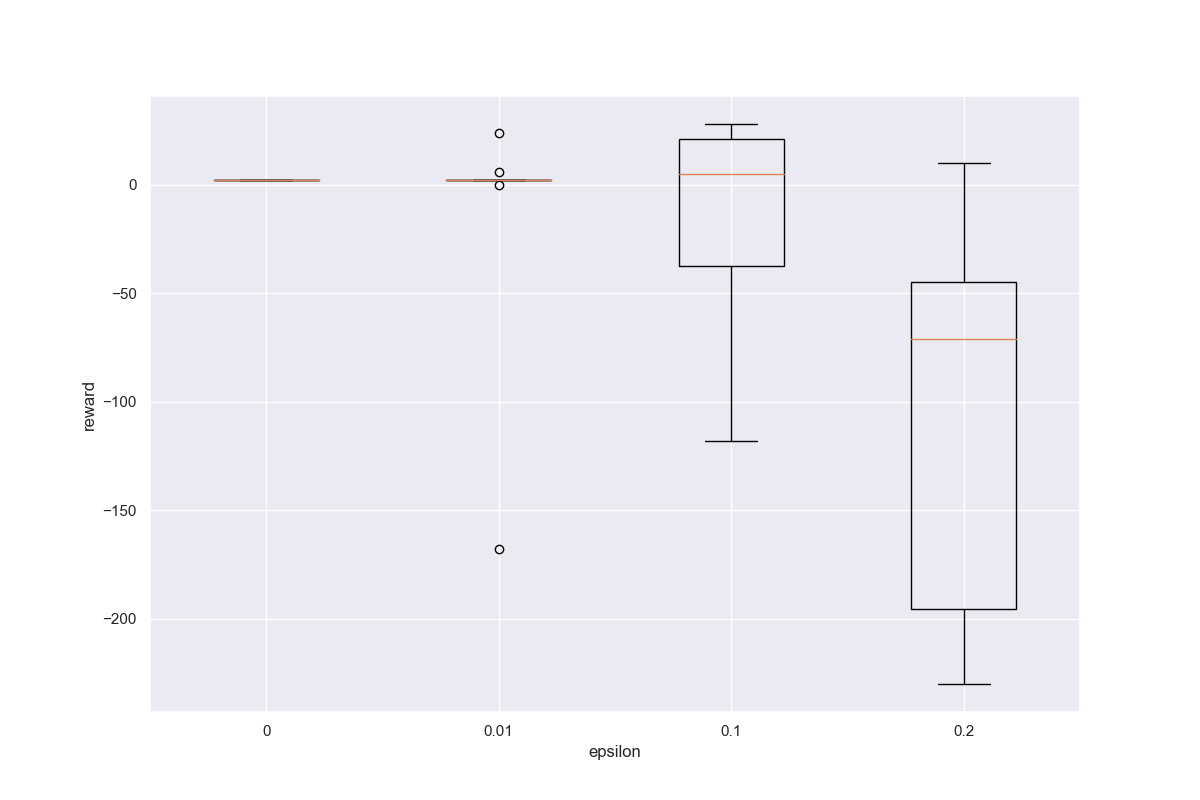
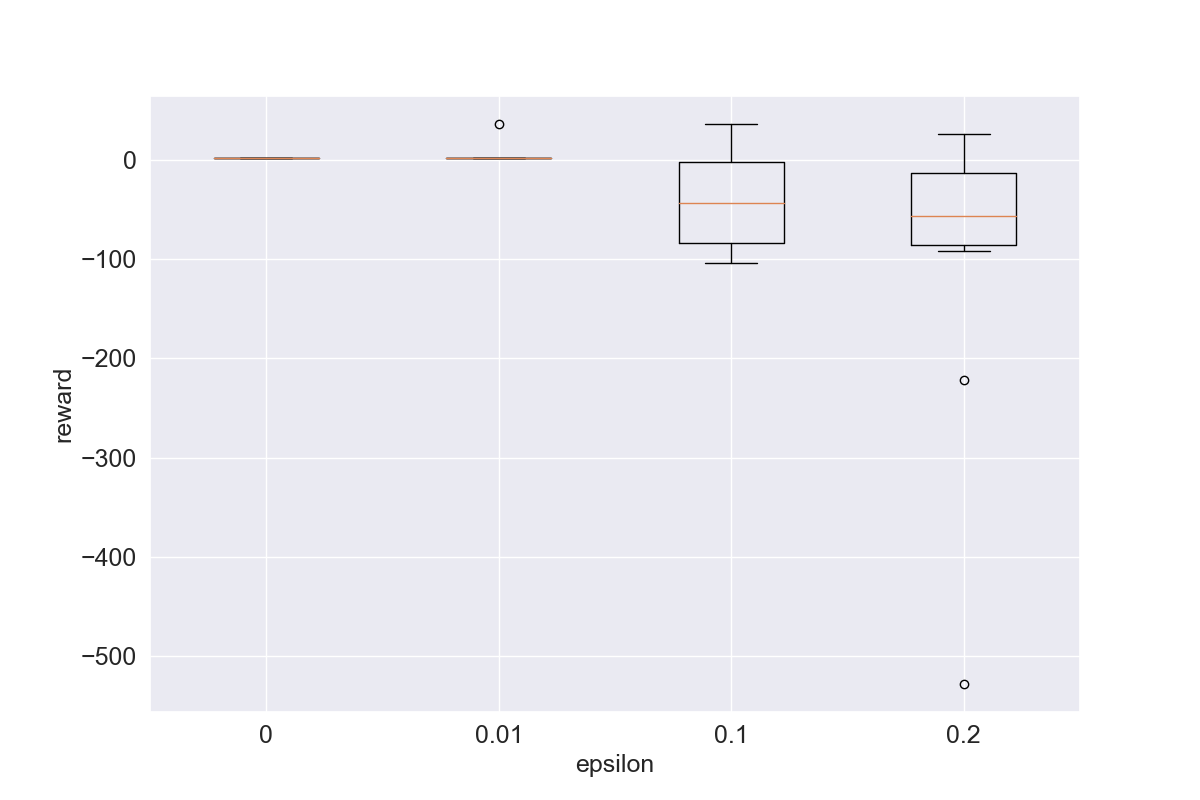
clean up the code

diff --git a/HW2/GameFiles/main_greedy.py b/HW2/GameFiles/main_greedy.py
@@ -60,30 +60,30 @@ def run_greedy(map, specified_prob):
     # get the most likely digit
     print(char.argmax())
 
-    # show ground truth, explored, and predicted map
-    # ground truth
-    fig, ax = plt.subplots()
-    ax.imshow(game.truthMap, cmap='gray')
-    plt.subplots_adjust(left=0.05, right=0.95, bottom=0.1, top=0.95)
-    plt.savefig('../fig/map_gt_' + str(map.number) + '_greedy.png')
-    plt.show()
-    # explored w/ a robot's trajectory
-    fig, ax = plt.subplots()
-    ax.plot(path_x, path_y, color='red')
-    ax.imshow(game.exploredMap, cmap='gray')
-    plt.subplots_adjust(left=0.05, right=0.95, bottom=0.1, top=0.95)
-    plt.savefig('../fig/map_explore_' + str(map.number) + '_greedy.png')
-    plt.show()
-    # predicted
-    fig, ax = plt.subplots()
-    ax.imshow(image, cmap='gray')
-    plt.subplots_adjust(left=0.05, right=0.95, bottom=0.1, top=0.95)
-    plt.savefig('../fig/map_pred_' + str(map.number) + '_greedy.png')
-    plt.show()
+    # # show ground truth, explored, and predicted map
+    # # ground truth
+    # fig, ax = plt.subplots()
+    # ax.imshow(game.truthMap, cmap='gray')
+    # plt.subplots_adjust(left=0.05, right=0.95, bottom=0.1, top=0.95)
+    # plt.savefig('../fig/map_gt_' + str(map.number) + '_greedy.png')
+    # plt.show()
+    # # explored w/ a robot's trajectory
+    # fig, ax = plt.subplots()
+    # ax.plot(path_x, path_y, color='red')
+    # ax.imshow(game.exploredMap, cmap='gray')
+    # plt.subplots_adjust(left=0.05, right=0.95, bottom=0.1, top=0.95)
+    # plt.savefig('../fig/map_explore_' + str(map.number) + '_greedy.png')
+    # plt.show()
+    # # predicted
+    # fig, ax = plt.subplots()
+    # ax.imshow(image, cmap='gray')
+    # plt.subplots_adjust(left=0.05, right=0.95, bottom=0.1, top=0.95)
+    # plt.savefig('../fig/map_pred_' + str(map.number) + '_greedy.png')
+    # plt.show()
 
 if __name__ == '__main__':
     # init map and prob
-    map = Map()
+    map = Map() # 7
     specified_prob = 0.8
 
     # run exploration
@@ -91,7 +91,7 @@ if __name__ == '__main__':
 
     map.getNewMap()
     map.getNewMap()
-    map.getNewMap()
+    map.getNewMap() # 0
 
     # run exploration
     run_greedy(map, specified_prob)

diff --git a/HW2/GameFiles/main_epsilon_greedy.py b/HW2/GameFiles/main_epsilon_greedy.py
@@ -90,7 +90,7 @@ def run_greedy(map, epsilon, specified_prob):
 
 if __name__ == '__main__':
     # init map and prob
-    map = Map()
+    map = Map() # 7
     epsilon = [0, 0.01, 0.1, 0.2]
     specified_prob = 0.8
     reward_list = np.zeros((len(epsilon), 10))
@@ -108,8 +108,9 @@ if __name__ == '__main__':
     bp = ax.boxplot((reward_list[0], reward_list[1], reward_list[2], reward_list[3]))
     ax.set_xticklabels(['0', '0.01', '0.1', '0.2'])
     ax.yaxis.grid(True)
-    plt.xlabel('epsilon')
-    plt.ylabel('reward')
+    plt.xlabel('epsilon', fontsize=18)
+    plt.ylabel('reward', fontsize=18)
+    plt.tick_params(labelsize=18)
     plt.savefig('../fig/boxplot_reward_' + str(map.number) + '_greedy.png')
     plt.show()
 
@@ -118,7 +119,8 @@ if __name__ == '__main__':
     bp = ax.boxplot((runtime_list[0], runtime_list[1], runtime_list[2], runtime_list[3]))
     ax.set_xticklabels(['0', '0.01', '0.1', '0.2'])
     ax.yaxis.grid(True)
-    plt.xlabel('epsilon')
-    plt.ylabel('running time [sec]')
+    plt.xlabel('epsilon', fontsize=18)
+    plt.ylabel('running time [sec]', fontsize=18)
+    plt.tick_params(labelsize=18)
     plt.savefig('../fig/boxplot_runtime_' + str(map.number) + '_greedy.png')
     plt.show()

diff --git a/HW2/GameFiles/GreedyNavigator.py b/HW2/GameFiles/GreedyNavigator.py
@@ -199,20 +199,3 @@ class GreedyNavigator:
         location_next = (xLoc, yLoc)
 
         return location_next
-
-    def _summarize_progress(self, location, dict_info_gain, direction, map_gt, map, map_prediction):
-        print(" ")
-        print(f"before one iteration of the game -> Robot at: ({location[0]}, {location[1]})")
-        print(dict_info_gain)
-        print("{0} is selected as a next robot direction".format(direction))
-
-        char = self.classNet.runNetwork(map_prediction)
-        estimated_digit = char.argmax()
-        print(self.softmax(torch.from_numpy(char).clone()).numpy())
-        print("{0} is the predicted value based on the exploration so far".format(estimated_digit))
-
-        fig, (ax1, ax2, ax3) = plt.subplots(ncols=3)
-        pos = ax1.imshow(map_gt)
-        pos = ax2.imshow(map)
-        pos = ax3.imshow(map_prediction, cmap='gray')
-        plt.show()
